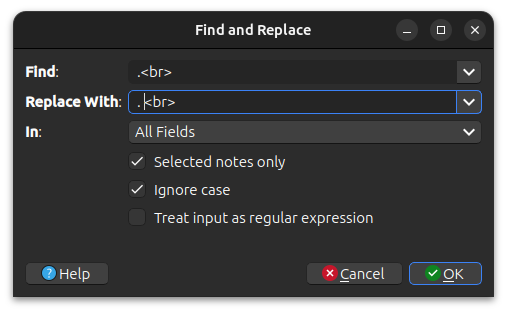
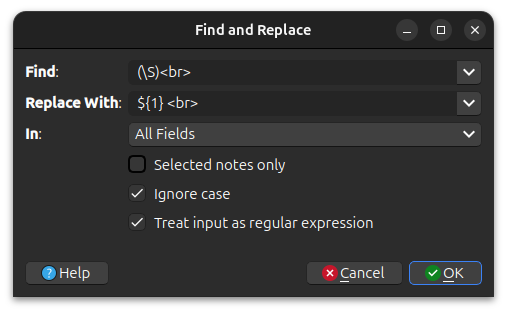
updated 'morphs not splitting correctly' section in guide (#241)

diff --git a/docs/src/user_guide/known-problems.md b/docs/src/user_guide/known-problems.md
@@ -48,19 +48,19 @@
 
 
 <details>
-  <summary style="display:list-item">Morphs don't split on punctuation marks</summary>
+  <summary style="display:list-item">Morphs don't split correctly</summary>
 
-> Most morphemizers don't split text on punctuation marks because it would split phrases like `10 a.m.`
-> into `[10, a, m]`, which would be unideal.
+> Anki stores text on cards as HTML, and this can cause some weird/unexpected problems. One such problems is that
+> line breaks are actually stored as `<br>`.
 >
->This can cause problems when there are line breaks on Anki cards:
+> Here is how it looks on the card:
 >
 >```plaintext
 >Hello.
 >Goodbye.
 >```
 >
->The text is actually stored as:
+>This is how it is actually stored:
 >
 >```plaintext
 >Hello.<br>Goodbye.
@@ -72,14 +72,21 @@
 >Hello.Goodbye.
 >```
 >
->To fix this problem, you can add a whitespace between the punctuation mark and the `<br>` tag.
->```plaintext
->.<br>
->. <br>
->```
->This can be done in bulk with
-> the `find and replace` feature in the Anki browser:
+>To fix this problem, we can use the [find and replace feature](https://docs.ankiweb.net/browsing.html#find-and-replace)
+> in Anki to add a whitespace between before the `<br>` on all our cards:
 ![find_and_replace_split.png](../img/find_and_replace_split.png)
+> Where the `Find` field has this:
+>```plaintext
+>(\S)<br>
+>```
+>The `(\S)` part finds a non-whitespace character and saves it for later.
+>
+>And then the `Replace With` field has this:
+>```plaintext
+>${1} <br>
+>```
+>The `${1}` part re-inserts the `(\S)` character that was found earlier.
+
 
 
 </details>
